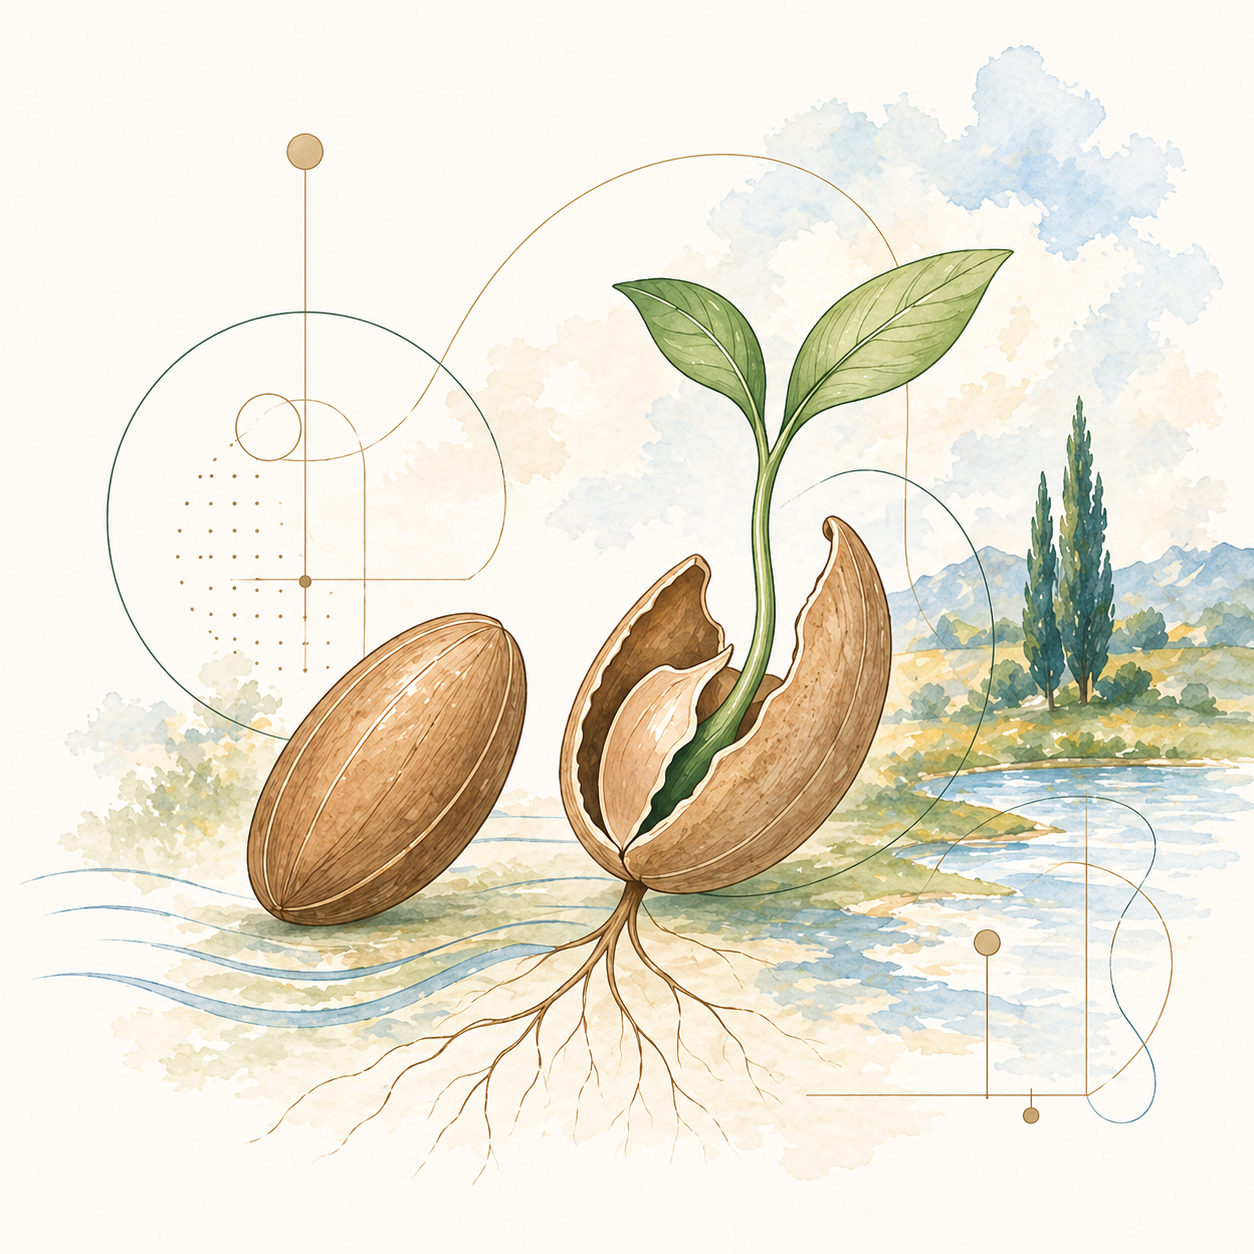
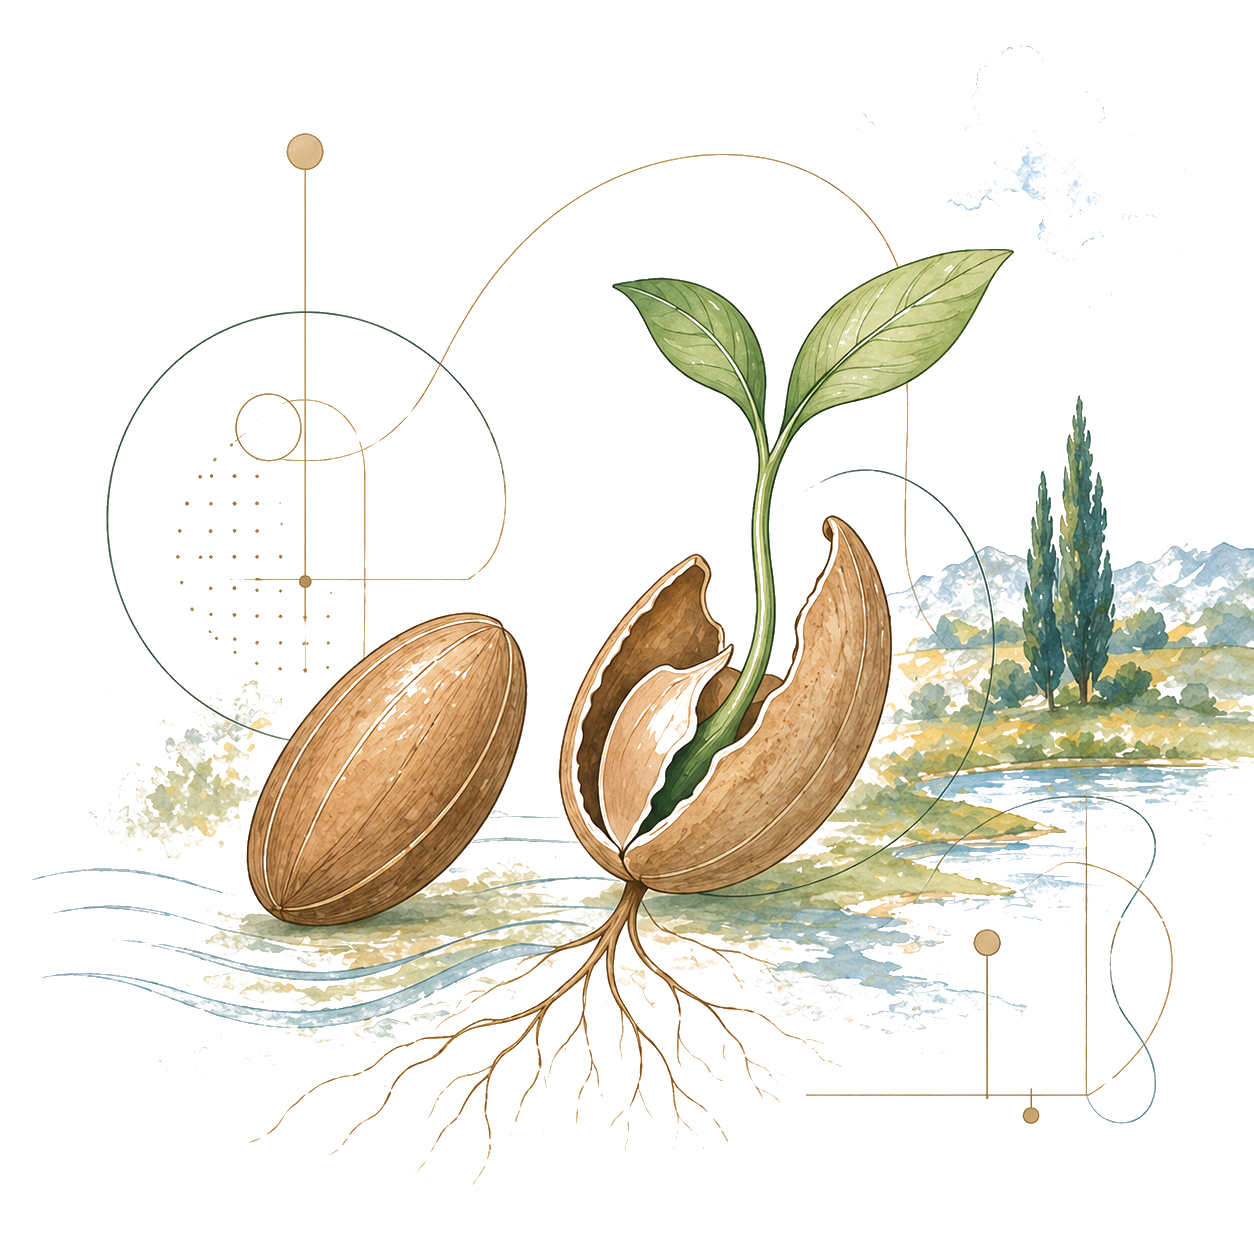
fix(landing): hero-seed.png ffmpeg 去米色底成透明 PNG
之前 mix-blend-mode + mask 都救不了 PNG 自带的米色矩形底（不均匀
水彩，mask 边缘要么硬边要么把主体一起淡化）。

用 ffmpeg colorkey RGB 空间 0.10 容差精准 key 掉 #f7f1e7 米色：
  ffmpeg -i hero-seed.png -vf "colorkey=0xf7f1e7:0.10:0.05" out.png

PNG 现在 RGBA 透明背景，CSS 删除 mask-image / mix-blend-mode，
直接 object-fit contain + 轻微 filter 微调，与页面米色 bg 无缝融合。

副作用：尝试过 chromakey YUV（任何容差都把整图吃掉，因为 luminance
跟背景太接近）和 colorkey 0.30+（同样过激进），最终 0.10 RGB 平衡好。

diff --git a/src/app/page.tsx b/src/app/page.tsx
@@ -351,27 +351,9 @@ export default function HomePage() {
           width: 100%;
           height: 100%;
           object-fit: contain;
-          mix-blend-mode: multiply;
+          /* hero-seed.png 已用 ffmpeg colorkey=0xf7f1e7:0.10:0.05 处理为透明背景，
+             与页面米色 bg 无缝。不再需要 mix-blend-mode 或 mask 兜底。 */
           filter: saturate(.94) contrast(.98);
-          opacity: .96;
-          /* 超柔渐变 mask — 中心从未达 100% 不透明，边缘大范围羽化，
-             把 PNG 自带的米色底框逐步融化掉，无硬边 */
-          -webkit-mask-image: radial-gradient(
-            ellipse 92% 88% at 50% 50%,
-            rgba(0, 0, 0, .96) 0%,
-            rgba(0, 0, 0, .85) 35%,
-            rgba(0, 0, 0, .55) 60%,
-            rgba(0, 0, 0, .2) 82%,
-            transparent 100%
-          );
-          mask-image: radial-gradient(
-            ellipse 92% 88% at 50% 50%,
-            rgba(0, 0, 0, .96) 0%,
-            rgba(0, 0, 0, .85) 35%,
-            rgba(0, 0, 0, .55) 60%,
-            rgba(0, 0, 0, .2) 82%,
-            transparent 100%
-          );
         }
 
         .vitame-landing .section { padding: 28px 0; }
